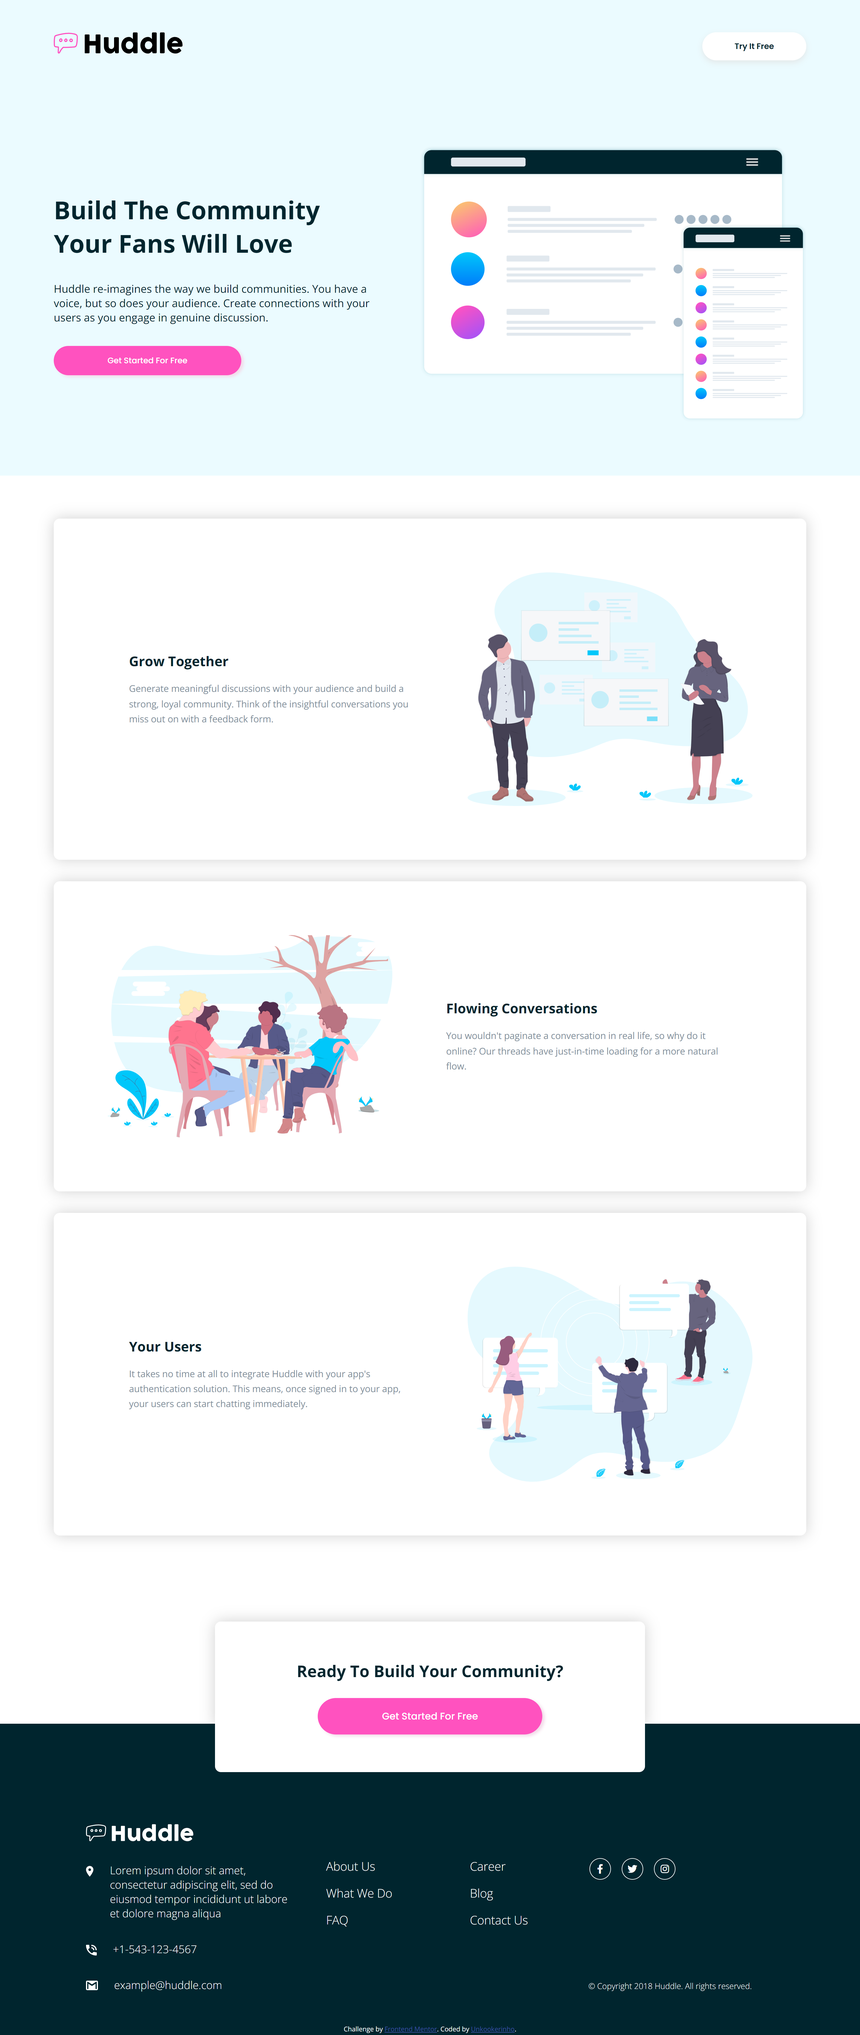
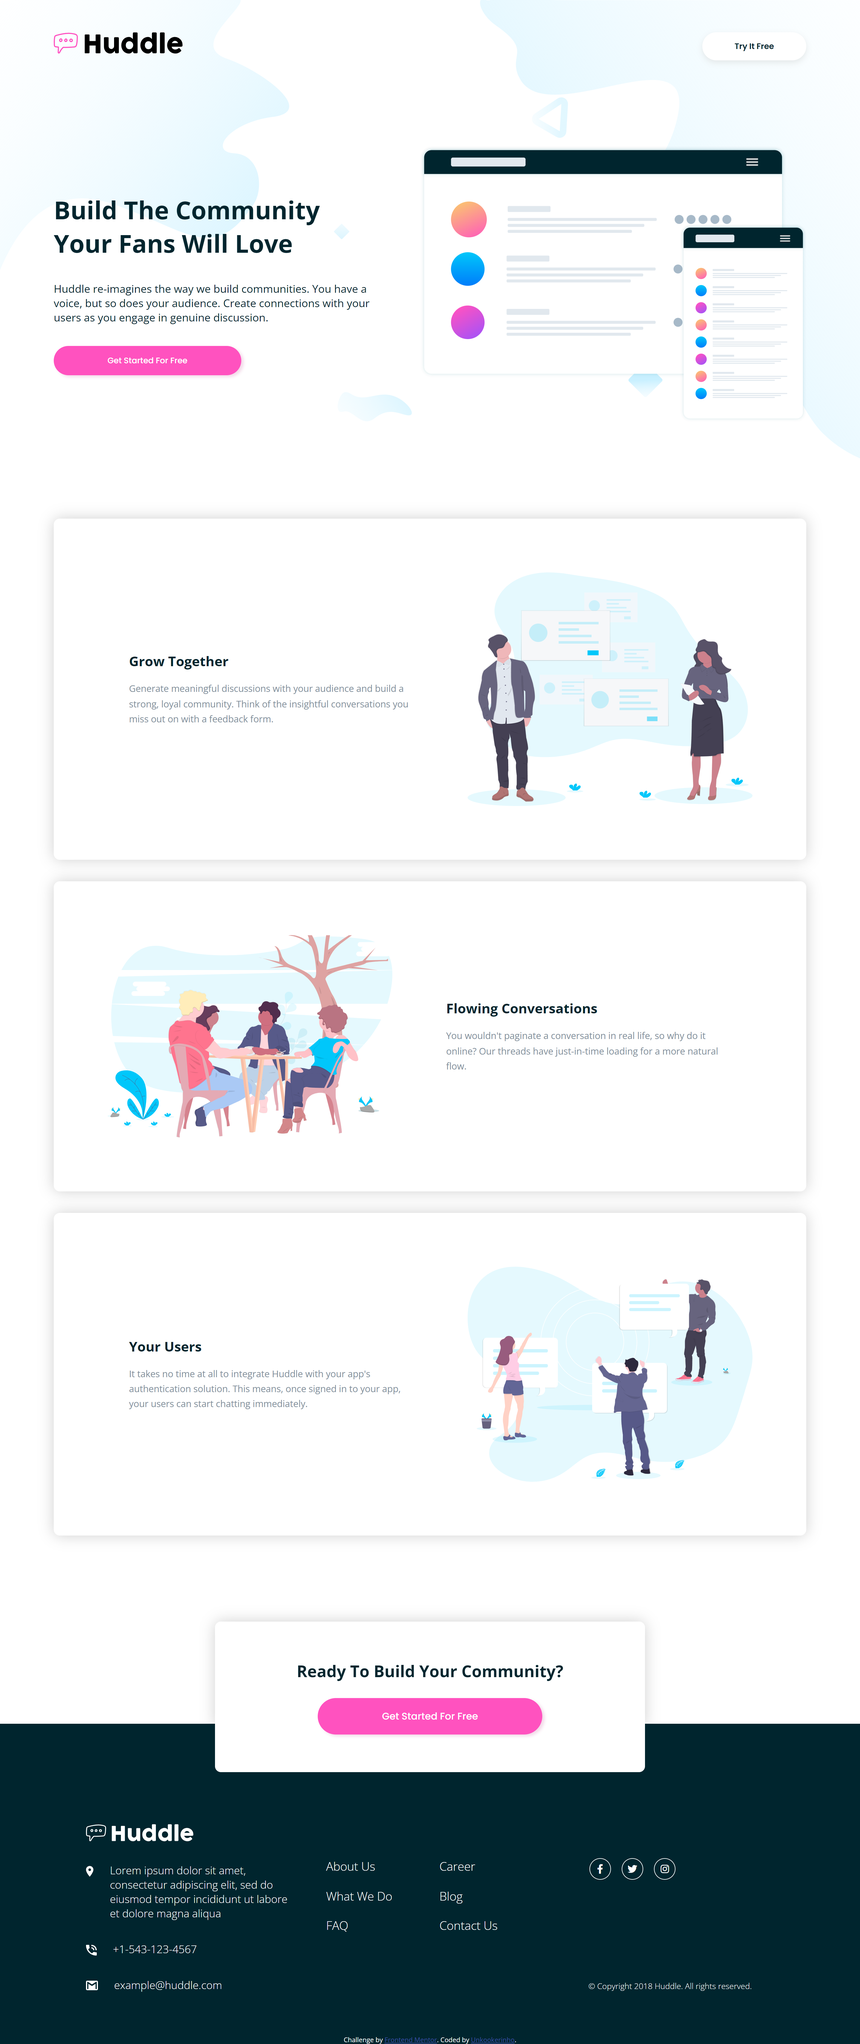
Added background image

diff --git a/styles/css/style.min.css b/styles/css/style.min.css
@@ -1,1 +1,1 @@
-*,*::before,*::after{-webkit-box-sizing:border-box;box-sizing:border-box}*{margin:0;padding:0;font:inherit}img,picture,svg,video{display:block;max-width:100%}ol,ul{list-style:none}body{min-height:100vh;font-family:"Open Sans",sans-serif}body h1,body h2,body h3{font-weight:700;color:#00252e}body h1{font-size:1.5rem}body h2{font-size:1.25rem}body h3{font-size:1.05rem}main{display:-webkit-box;display:-ms-flexbox;display:flex;-webkit-box-orient:vertical;-webkit-box-direction:normal;-ms-flex-direction:column;flex-direction:column;-webkit-box-align:center;-ms-flex-align:center;align-items:center;-webkit-box-pack:center;-ms-flex-pack:center;justify-content:center}@media(min-width: 1024px){html{font-size:18px}body h1{font-size:2.3rem}body h3{font-size:1.5rem}}.attribution{background-color:#00252e;color:#fff;font-size:11px;text-align:center}.attribution a{color:#3e52a3}button{cursor:pointer;border:none;border-radius:50px;font-family:"Poppins",sans-serif;-webkit-transition:background-color .2s,color .2s;transition:background-color .2s,color .2s}nav button{padding:.2rem 1.2rem;background-color:#fff;color:#00252e;-webkit-box-shadow:0px 4px 10px 0px #e4e8e9;box-shadow:0px 4px 10px 0px #e4e8e9;font-size:.75rem;font-weight:600}nav button:hover{color:#808d99}section button{padding:.7rem 4rem;background-color:#ff52bf;color:#fff;-webkit-box-shadow:4px 3px 5px 0px #f3dae9;box-shadow:4px 3px 5px 0px #f3dae9;font-size:.75rem;font-weight:500}section button:hover{background-color:#ff9bdb}@media(min-width: 1024px){nav button{padding:.75rem 3rem}section button{padding:.8rem 5rem}.get-started button{padding:1rem 6rem;font-size:.9rem}}nav{display:-webkit-box;display:-ms-flexbox;display:flex;-webkit-box-orient:horizontal;-webkit-box-direction:normal;-ms-flex-direction:row;flex-direction:row;-webkit-box-pack:justify;-ms-flex-pack:justify;justify-content:space-between;padding:1.5rem 2rem;background-color:#ebfbff}nav img{cursor:pointer;width:7rem;height:1.1rem}@media(min-width: 1024px){nav{padding:3rem 5rem}nav img{width:12rem;height:2rem}}.hero{padding:4rem 2.2rem;display:-webkit-box;display:-ms-flexbox;display:flex;-webkit-box-orient:vertical;-webkit-box-direction:normal;-ms-flex-direction:column;flex-direction:column;gap:3.5rem;background-color:#ebfbff}.hero .text{display:-webkit-box;display:-ms-flexbox;display:flex;-webkit-box-orient:vertical;-webkit-box-direction:normal;-ms-flex-direction:column;flex-direction:column;-webkit-box-align:center;-ms-flex-align:center;align-items:center;text-align:center;gap:2rem}.hero .text p{color:#00252e}.cards{padding:4rem 1rem;padding-bottom:3rem;display:-webkit-box;display:-ms-flexbox;display:flex;-webkit-box-orient:vertical;-webkit-box-direction:normal;-ms-flex-direction:column;flex-direction:column;gap:2rem}.card{padding:3rem;padding-top:4.5rem;min-height:500px;display:-webkit-box;display:-ms-flexbox;display:flex;-webkit-box-orient:vertical;-webkit-box-direction:normal;-ms-flex-direction:column;flex-direction:column;-webkit-box-align:center;-ms-flex-align:center;align-items:center;-webkit-box-pack:center;-ms-flex-pack:center;justify-content:center;gap:3rem;border-radius:10px;-webkit-box-shadow:0px 0px 24px 0px #cfcfcf;box-shadow:0px 0px 24px 0px #cfcfcf}.card .image{display:-webkit-box;display:-ms-flexbox;display:flex;-webkit-box-pack:center;-ms-flex-pack:center;justify-content:center;-webkit-box-align:center;-ms-flex-align:center;align-items:center}.card .text{display:-webkit-box;display:-ms-flexbox;display:flex;-webkit-box-orient:vertical;-webkit-box-direction:normal;-ms-flex-direction:column;flex-direction:column;-webkit-box-align:center;-ms-flex-align:center;align-items:center;text-align:center;gap:1rem}.card p{color:#808d99;font-size:.85rem;font-weight:400;line-height:1.4rem}.get-started-wrapper{padding:4rem 1rem}.get-started{padding:2.75rem 2rem;margin-bottom:-8.5rem;position:relative;display:-webkit-box;display:-ms-flexbox;display:flex;-webkit-box-orient:vertical;-webkit-box-direction:normal;-ms-flex-direction:column;flex-direction:column;-webkit-box-align:center;-ms-flex-align:center;align-items:center;-webkit-box-pack:center;-ms-flex-pack:center;justify-content:center;gap:1.5rem;background-color:#fff;border-radius:10px}.get-started::before{content:"";position:absolute;top:0;left:0;width:100%;height:60%;z-index:-1;border-radius:10px;-webkit-box-shadow:0px 0px 24px 0px #cfcfcf;box-shadow:0px 0px 24px 0px #cfcfcf}@media(min-width: 1024px){.hero{padding:5rem;-webkit-box-orient:horizontal;-webkit-box-direction:normal;-ms-flex-direction:row;flex-direction:row}.hero .text{-webkit-box-pack:center;-ms-flex-pack:center;justify-content:center;-webkit-box-align:start;-ms-flex-align:start;align-items:start;text-align:start;width:70%}.cards{padding:4rem 5rem}.card{-webkit-box-orient:horizontal;-webkit-box-direction:reverse;-ms-flex-direction:row-reverse;flex-direction:row-reverse;-webkit-box-align:stretch;-ms-flex-align:stretch;align-items:stretch;padding:5rem}.card .image{-webkit-box-flex:1;-ms-flex:1;flex:1}.card .text{-webkit-box-flex:1;-ms-flex:1;flex:1;padding:2rem;-webkit-box-pack:center;-ms-flex-pack:center;justify-content:center;-webkit-box-align:start;-ms-flex-align:start;align-items:start;text-align:start}.card:nth-child(2){-webkit-box-orient:horizontal;-webkit-box-direction:normal;-ms-flex-direction:row;flex-direction:row}.get-started{width:40rem;height:14rem}.get-started::before{height:70%}}.footer-flex{padding:9rem 1rem 2.5rem 1rem;display:-webkit-box;display:-ms-flexbox;display:flex;-webkit-box-orient:vertical;-webkit-box-direction:normal;-ms-flex-direction:column;flex-direction:column;-webkit-box-align:stretch;-ms-flex-align:stretch;align-items:stretch;gap:3rem;background-color:#00252e;color:#fff;font-weight:300}.footer-flex .contact,.footer-flex .about,.footer-flex .social{-webkit-box-flex:1;-ms-flex:1;flex:1}.footer-flex .contact ul{display:-webkit-box;display:-ms-flexbox;display:flex;-webkit-box-orient:vertical;-webkit-box-direction:normal;-ms-flex-direction:column;flex-direction:column;gap:2rem}.footer-flex .contact ul .logo{width:10rem}.footer-flex .contact ul li{display:-webkit-box;display:-ms-flexbox;display:flex;-webkit-box-align:center;-ms-flex-align:center;align-items:center;gap:1.5rem}.footer-flex .contact ul li img{height:-webkit-fit-content;height:-moz-fit-content;height:fit-content}.footer-flex .contact ul li img:first-of-type{-ms-flex-item-align:start;align-self:flex-start;margin-top:.3rem}.footer-flex .about div{display:-webkit-box;display:-ms-flexbox;display:flex;-webkit-box-orient:vertical;-webkit-box-direction:normal;-ms-flex-direction:column;flex-direction:column;gap:1rem}.footer-flex .about ul{display:-webkit-box;display:-ms-flexbox;display:flex;-webkit-box-orient:vertical;-webkit-box-direction:normal;-ms-flex-direction:column;flex-direction:column;gap:1rem;font-size:1.1rem}.footer-flex .about ul li{cursor:pointer;position:relative;width:-webkit-fit-content;width:-moz-fit-content;width:fit-content;padding-right:10px}.footer-flex .about ul li:after{content:"";position:absolute;left:0;top:28px;height:2px;width:0%;background-color:#fff;-webkit-transition:width .2s;transition:width .2s}.footer-flex .about ul li:hover:after{width:100%}.footer-flex .social{display:-webkit-box;display:-ms-flexbox;display:flex;-webkit-box-orient:vertical;-webkit-box-direction:normal;-ms-flex-direction:column;flex-direction:column;-webkit-box-align:center;-ms-flex-align:center;align-items:center;gap:1rem}.footer-flex .social ul{display:-webkit-box;display:-ms-flexbox;display:flex;gap:1rem}.footer-flex .social ul li{cursor:pointer;width:32.41px;padding:.5rem;display:-webkit-box;display:-ms-flexbox;display:flex;-webkit-box-pack:center;-ms-flex-pack:center;justify-content:center;-webkit-box-align:center;-ms-flex-align:center;align-items:center;border:1px solid #fff;border-radius:50px;font-size:.9rem;-webkit-transition:border-color .2s;transition:border-color .2s}.footer-flex .social ul li i{-webkit-transition:color .2s;transition:color .2s}.footer-flex .social ul li:hover{border-color:#ff52bf}.footer-flex .social ul li:hover i{color:#ff52bf}.footer-flex .social span{font-size:.75rem}@media(min-width: 1024px){.footer-flex{padding:9rem 8rem 4rem 8rem;-webkit-box-orient:horizontal;-webkit-box-direction:normal;-ms-flex-direction:row;flex-direction:row}.footer-flex .about,.footer-flex .social{margin-top:62.8px}.footer-flex .about ul{-webkit-box-orient:vertical;-webkit-box-direction:normal;-ms-flex-direction:column;flex-direction:column;-webkit-box-pack:justify;-ms-flex-pack:justify;justify-content:space-between;-ms-flex-wrap:wrap;flex-wrap:wrap;height:7rem}.footer-flex .social{-webkit-box-pack:justify;-ms-flex-pack:justify;justify-content:space-between}.footer-flex .social ul{margin-left:-7rem}.footer-flex .social ul li{width:36.2px}}
+*,*::before,*::after{-webkit-box-sizing:border-box;box-sizing:border-box}*{margin:0;padding:0;font:inherit}img,picture,svg,video{display:block;max-width:100%}ol,ul{list-style:none}body{min-height:100vh;font-family:"Open Sans",sans-serif}body h1,body h2,body h3{font-weight:700;color:#00252e}body h1{font-size:1.5rem}body h2{font-size:1.25rem}body h3{font-size:1.05rem}main{display:-webkit-box;display:-ms-flexbox;display:flex;-webkit-box-orient:vertical;-webkit-box-direction:normal;-ms-flex-direction:column;flex-direction:column;-webkit-box-align:center;-ms-flex-align:center;align-items:center;-webkit-box-pack:center;-ms-flex-pack:center;justify-content:center}@media(min-width: 1024px){html{font-size:18px}body h1{font-size:2.3rem}body h3{font-size:1.5rem}}.attribution{background-color:#00252e;color:#fff;font-size:11px;text-align:center}.attribution a{color:#3e52a3}button{cursor:pointer;border:none;border-radius:50px;font-family:"Poppins",sans-serif;-webkit-transition:background-color .2s,color .2s;transition:background-color .2s,color .2s}nav button{padding:.2rem 1.2rem;background-color:#fff;color:#00252e;-webkit-box-shadow:0px 4px 10px 0px #e4e8e9;box-shadow:0px 4px 10px 0px #e4e8e9;font-size:.75rem;font-weight:600}nav button:hover{color:#808d99}section button{padding:.7rem 4rem;background-color:#ff52bf;color:#fff;-webkit-box-shadow:4px 3px 5px 0px #f3dae9;box-shadow:4px 3px 5px 0px #f3dae9;font-size:.75rem;font-weight:500}section button:hover{background-color:#ff9bdb}@media(min-width: 1024px){nav button{padding:.75rem 3rem}section button{padding:.8rem 5rem}.get-started button{padding:1rem 6rem;font-size:.9rem}}nav{display:-webkit-box;display:-ms-flexbox;display:flex;-webkit-box-orient:horizontal;-webkit-box-direction:normal;-ms-flex-direction:row;flex-direction:row;-webkit-box-pack:justify;-ms-flex-pack:justify;justify-content:space-between;padding:1.5rem 2rem}nav img{cursor:pointer;width:7rem;height:1.1rem}@media(min-width: 1024px){nav{padding:3rem 5rem}nav img{width:12rem;height:2rem}}.hero{padding:4rem 2.2rem;display:-webkit-box;display:-ms-flexbox;display:flex;-webkit-box-orient:vertical;-webkit-box-direction:normal;-ms-flex-direction:column;flex-direction:column;gap:3.5rem}.hero .text{display:-webkit-box;display:-ms-flexbox;display:flex;-webkit-box-orient:vertical;-webkit-box-direction:normal;-ms-flex-direction:column;flex-direction:column;-webkit-box-align:center;-ms-flex-align:center;align-items:center;text-align:center;gap:2rem}.hero .text p{color:#00252e}.cards{padding:4rem 1rem;padding-bottom:3rem;display:-webkit-box;display:-ms-flexbox;display:flex;-webkit-box-orient:vertical;-webkit-box-direction:normal;-ms-flex-direction:column;flex-direction:column;gap:2rem}.card{padding:3rem;padding-top:4.5rem;min-height:500px;display:-webkit-box;display:-ms-flexbox;display:flex;-webkit-box-orient:vertical;-webkit-box-direction:normal;-ms-flex-direction:column;flex-direction:column;-webkit-box-align:center;-ms-flex-align:center;align-items:center;-webkit-box-pack:center;-ms-flex-pack:center;justify-content:center;gap:3rem;border-radius:10px;-webkit-box-shadow:0px 0px 24px 0px #cfcfcf;box-shadow:0px 0px 24px 0px #cfcfcf}.card .image{display:-webkit-box;display:-ms-flexbox;display:flex;-webkit-box-pack:center;-ms-flex-pack:center;justify-content:center;-webkit-box-align:center;-ms-flex-align:center;align-items:center}.card .text{display:-webkit-box;display:-ms-flexbox;display:flex;-webkit-box-orient:vertical;-webkit-box-direction:normal;-ms-flex-direction:column;flex-direction:column;-webkit-box-align:center;-ms-flex-align:center;align-items:center;text-align:center;gap:1rem}.card p{color:#808d99;font-size:.85rem;font-weight:400;line-height:1.4rem}.get-started-wrapper{padding:4rem 1rem}.get-started{padding:2.75rem 2rem;margin-bottom:-8.5rem;position:relative;display:-webkit-box;display:-ms-flexbox;display:flex;-webkit-box-orient:vertical;-webkit-box-direction:normal;-ms-flex-direction:column;flex-direction:column;-webkit-box-align:center;-ms-flex-align:center;align-items:center;-webkit-box-pack:center;-ms-flex-pack:center;justify-content:center;gap:1.5rem;background-color:#fff;border-radius:10px}.get-started::before{content:"";position:absolute;top:0;left:0;width:100%;height:60%;z-index:-1;border-radius:10px;-webkit-box-shadow:0px 0px 24px 0px #cfcfcf;box-shadow:0px 0px 24px 0px #cfcfcf}@media(min-width: 1024px){.hero{padding:5rem;-webkit-box-orient:horizontal;-webkit-box-direction:normal;-ms-flex-direction:row;flex-direction:row}.hero .text{-webkit-box-pack:center;-ms-flex-pack:center;justify-content:center;-webkit-box-align:start;-ms-flex-align:start;align-items:start;text-align:start;width:70%}.cards{padding:4rem 5rem}.card{-webkit-box-orient:horizontal;-webkit-box-direction:reverse;-ms-flex-direction:row-reverse;flex-direction:row-reverse;-webkit-box-align:stretch;-ms-flex-align:stretch;align-items:stretch;padding:5rem}.card .image{-webkit-box-flex:1;-ms-flex:1;flex:1}.card .text{-webkit-box-flex:1;-ms-flex:1;flex:1;padding:2rem;-webkit-box-pack:center;-ms-flex-pack:center;justify-content:center;-webkit-box-align:start;-ms-flex-align:start;align-items:start;text-align:start}.card:nth-child(2){-webkit-box-orient:horizontal;-webkit-box-direction:normal;-ms-flex-direction:row;flex-direction:row}.get-started{width:40rem;height:14rem}.get-started::before{height:70%}}.footer-flex{padding:9rem 1rem 2.5rem 1rem;display:-webkit-box;display:-ms-flexbox;display:flex;-webkit-box-orient:vertical;-webkit-box-direction:normal;-ms-flex-direction:column;flex-direction:column;-webkit-box-align:stretch;-ms-flex-align:stretch;align-items:stretch;gap:3rem;background-color:#00252e;color:#fff;font-weight:300}.footer-flex .contact,.footer-flex .about,.footer-flex .social{-webkit-box-flex:1;-ms-flex:1;flex:1}.footer-flex .contact ul{display:-webkit-box;display:-ms-flexbox;display:flex;-webkit-box-orient:vertical;-webkit-box-direction:normal;-ms-flex-direction:column;flex-direction:column;gap:2rem}.footer-flex .contact ul .logo{width:10rem}.footer-flex .contact ul li{display:-webkit-box;display:-ms-flexbox;display:flex;-webkit-box-align:center;-ms-flex-align:center;align-items:center;gap:1.5rem}.footer-flex .contact ul li img{height:-webkit-fit-content;height:-moz-fit-content;height:fit-content}.footer-flex .contact ul li img:first-of-type{-ms-flex-item-align:start;align-self:flex-start;margin-top:.3rem}.footer-flex .about div{display:-webkit-box;display:-ms-flexbox;display:flex;-webkit-box-orient:vertical;-webkit-box-direction:normal;-ms-flex-direction:column;flex-direction:column;gap:1rem}.footer-flex .about ul{display:-webkit-box;display:-ms-flexbox;display:flex;-webkit-box-orient:vertical;-webkit-box-direction:normal;-ms-flex-direction:column;flex-direction:column;gap:1rem;font-size:1.1rem}.footer-flex .about ul li{cursor:pointer;position:relative;width:-webkit-fit-content;width:-moz-fit-content;width:fit-content;padding-right:10px}.footer-flex .about ul li:after{content:"";position:absolute;left:0;top:28px;height:2px;width:0%;background-color:#fff;-webkit-transition:width .2s;transition:width .2s}.footer-flex .about ul li:hover:after{width:100%}.footer-flex .social{display:-webkit-box;display:-ms-flexbox;display:flex;-webkit-box-orient:vertical;-webkit-box-direction:normal;-ms-flex-direction:column;flex-direction:column;-webkit-box-align:center;-ms-flex-align:center;align-items:center;gap:1rem}.footer-flex .social ul{display:-webkit-box;display:-ms-flexbox;display:flex;gap:1rem}.footer-flex .social ul li{cursor:pointer;width:32.41px;padding:.5rem;display:-webkit-box;display:-ms-flexbox;display:flex;-webkit-box-pack:center;-ms-flex-pack:center;justify-content:center;-webkit-box-align:center;-ms-flex-align:center;align-items:center;border:1px solid #fff;border-radius:50px;font-size:.9rem;-webkit-transition:border-color .2s;transition:border-color .2s}.footer-flex .social ul li i{-webkit-transition:color .2s;transition:color .2s}.footer-flex .social ul li:hover{border-color:#ff52bf}.footer-flex .social ul li:hover i{color:#ff52bf}.footer-flex .social span{font-size:.75rem}@media(min-width: 1024px){.footer-flex{padding:9rem 8rem 4rem 8rem;-webkit-box-orient:horizontal;-webkit-box-direction:normal;-ms-flex-direction:row;flex-direction:row}.footer-flex .about,.footer-flex .social{margin-top:62.8px}.footer-flex .about ul{-webkit-box-orient:vertical;-webkit-box-direction:normal;-ms-flex-direction:column;flex-direction:column;-webkit-box-pack:justify;-ms-flex-pack:justify;justify-content:space-between;-ms-flex-wrap:wrap;flex-wrap:wrap;height:7rem}.footer-flex .social{-webkit-box-pack:justify;-ms-flex-pack:justify;justify-content:space-between}.footer-flex .social ul{margin-left:-7rem}.footer-flex .social ul li{width:36.2px}}header{background:url(/images/bg-hero-mobile.svg) no-repeat;background-size:cover;background-color:#ebfbff}@media(min-width: 1024px){header{background:url(/images/bg-hero-desktop.svg) no-repeat;background-size:cover}}

diff --git a/index.html b/index.html
@@ -29,14 +29,12 @@
   </head>
   <body>
     <!-- NAVBAR -->
-    <nav>
-      <img src="images/logo-black.svg" alt="Huddle logo" />
-      <button>Try It Free</button>
-    </nav>
+    <header>
+      <nav>
+        <img src="images/logo-black.svg" alt="Huddle logo" />
+        <button>Try It Free</button>
+      </nav>
 
-    <!-- MAIN -->
-
-    <main>
       <!-- HERO SECTION -->
 
       <section class="hero">
@@ -56,7 +54,10 @@
           />
         </div>
       </section>
+    </header>
+    <!-- MAIN -->
 
+    <main>
       <!-- CARDS -->
 
       <div class="cards">
@@ -130,65 +131,67 @@
     <footer>
       <!-- CONTACT SECTION -->
       <div class="footer-flex">
-
-      <div class="contact">
-        <ul>
-          <li>
-            <img class="logo" src="images/logo-white.svg" alt="Huddle logo" />
-          </li>
-          <li>
-            <img src="images/icon-location.svg" alt="Location icon" />
-            Lorem ipsum dolor sit amet, consectetur adipiscing elit, sed do
-            eiusmod tempor incididunt ut labore et dolore magna aliqua
-          </li>
-          <li>
-            <img src="images/icon-phone.svg" alt="Phone icon" />+1-543-123-4567
-          </li>
-          <li>
-            <img
-              src="images/icon-email.svg"
-              alt="Email icon"
-            />example@huddle.com
-          </li>
-        </ul>
-      </div>
-
-      <!-- ABOUT SECTION -->
-
-      <div class="about">
-        <ul>
-          <!-- FIRST COLUMN -->
-            <li>About Us</li>
-            <li>What We Do</li>
-            <li>FAQ</li>
-          <!-- SECOND COLUMN -->
-            <li>Career</li>
-            <li>Blog</li>
-            <li>Contact Us</li>
-        </ul>
-      </div>
-
-      <!-- SOCIAL MEDIA SECTION -->
-
-      <div class="social">
-        <div>
+        <div class="contact">
           <ul>
             <li>
-              <i class="fa-brands fa-facebook-f"></i>
+              <img class="logo" src="images/logo-white.svg" alt="Huddle logo" />
             </li>
             <li>
-              <i class="fa-brands fa-twitter"></i>
+              <img src="images/icon-location.svg" alt="Location icon" />
+              Lorem ipsum dolor sit amet, consectetur adipiscing elit, sed do
+              eiusmod tempor incididunt ut labore et dolore magna aliqua
             </li>
             <li>
-              <i class="fa-brands fa-instagram"></i>
+              <img
+                src="images/icon-phone.svg"
+                alt="Phone icon"
+              />+1-543-123-4567
+            </li>
+            <li>
+              <img
+                src="images/icon-email.svg"
+                alt="Email icon"
+              />example@huddle.com
             </li>
           </ul>
         </div>
-        <div>
-          <span> &copy; Copyright 2018 Huddle. All rights reserved.</span>
+
+        <!-- ABOUT SECTION -->
+
+        <div class="about">
+          <ul>
+            <!-- FIRST COLUMN -->
+            <li>About Us</li>
+            <li>What We Do</li>
+            <li>FAQ</li>
+            <!-- SECOND COLUMN -->
+            <li>Career</li>
+            <li>Blog</li>
+            <li>Contact Us</li>
+          </ul>
+        </div>
+
+        <!-- SOCIAL MEDIA SECTION -->
+
+        <div class="social">
+          <div>
+            <ul>
+              <li>
+                <i class="fa-brands fa-facebook-f"></i>
+              </li>
+              <li>
+                <i class="fa-brands fa-twitter"></i>
+              </li>
+              <li>
+                <i class="fa-brands fa-instagram"></i>
+              </li>
+            </ul>
+          </div>
+          <div>
+            <span> &copy; Copyright 2018 Huddle. All rights reserved.</span>
+          </div>
         </div>
       </div>
-    </div>    
       <div class="attribution">
         <p class="attribution">
           Challenge by
@@ -201,7 +204,5 @@
         </p>
       </div>
     </footer>
-
-
   </body>
 </html>

diff --git a/styles/css/style.css b/styles/css/style.css
@@ -133,7 +133,6 @@ nav {
       -ms-flex-pack: justify;
           justify-content: space-between;
   padding: 1.5rem 2rem;
-  background-color: hsl(193, 100%, 96%);
 }
 nav img {
   cursor: pointer;
@@ -160,7 +159,6 @@ nav img {
       -ms-flex-direction: column;
           flex-direction: column;
   gap: 3.5rem;
-  background-color: hsl(193, 100%, 96%);
 }
 .hero .text {
   display: -webkit-box;
@@ -534,5 +532,17 @@ nav img {
   }
   .footer-flex .social ul li {
     width: 36.2px;
+  }
+}
+header {
+  background: url(/images/bg-hero-mobile.svg) no-repeat;
+  background-size: cover;
+  background-color: hsl(193, 100%, 96%);
+}
+
+@media (min-width: 1024px) {
+  header {
+    background: url(/images/bg-hero-desktop.svg) no-repeat;
+    background-size: cover;
   }
 }

diff --git a/styles/scss/layout/_header.scss b/styles/scss/layout/_header.scss
@@ -1,0 +1,12 @@
+header {
+    background: url(/images/bg-hero-mobile.svg) no-repeat;
+    background-size: cover;
+    background-color: $clr-very-pale-cyan;
+}
+
+@media(min-width:1024px) {
+    header {
+        background: url(/images/bg-hero-desktop.svg) no-repeat;
+        background-size: cover;
+    }
+}

diff --git a/styles/scss/layout/_sections.scss b/styles/scss/layout/_sections.scss
@@ -5,8 +5,6 @@
     flex-direction: column;
     gap: 3.5rem;
 
-    background-color: $clr-very-pale-cyan;
-
     .text {
         display: flex;
         flex-direction: column;

diff --git a/styles/scss/layout/_navbar.scss b/styles/scss/layout/_navbar.scss
@@ -5,8 +5,6 @@ nav {
     
     padding: 1.5rem 2rem;
 
-    background-color: $clr-very-pale-cyan;
-
     img {
         cursor: pointer;
         width: 7rem;

diff --git a/styles/scss/style.scss b/styles/scss/style.scss
@@ -6,3 +6,4 @@
 @import 'layout/navbar';
 @import 'layout/sections';
 @import 'layout/footer';
+@import 'layout/header';
